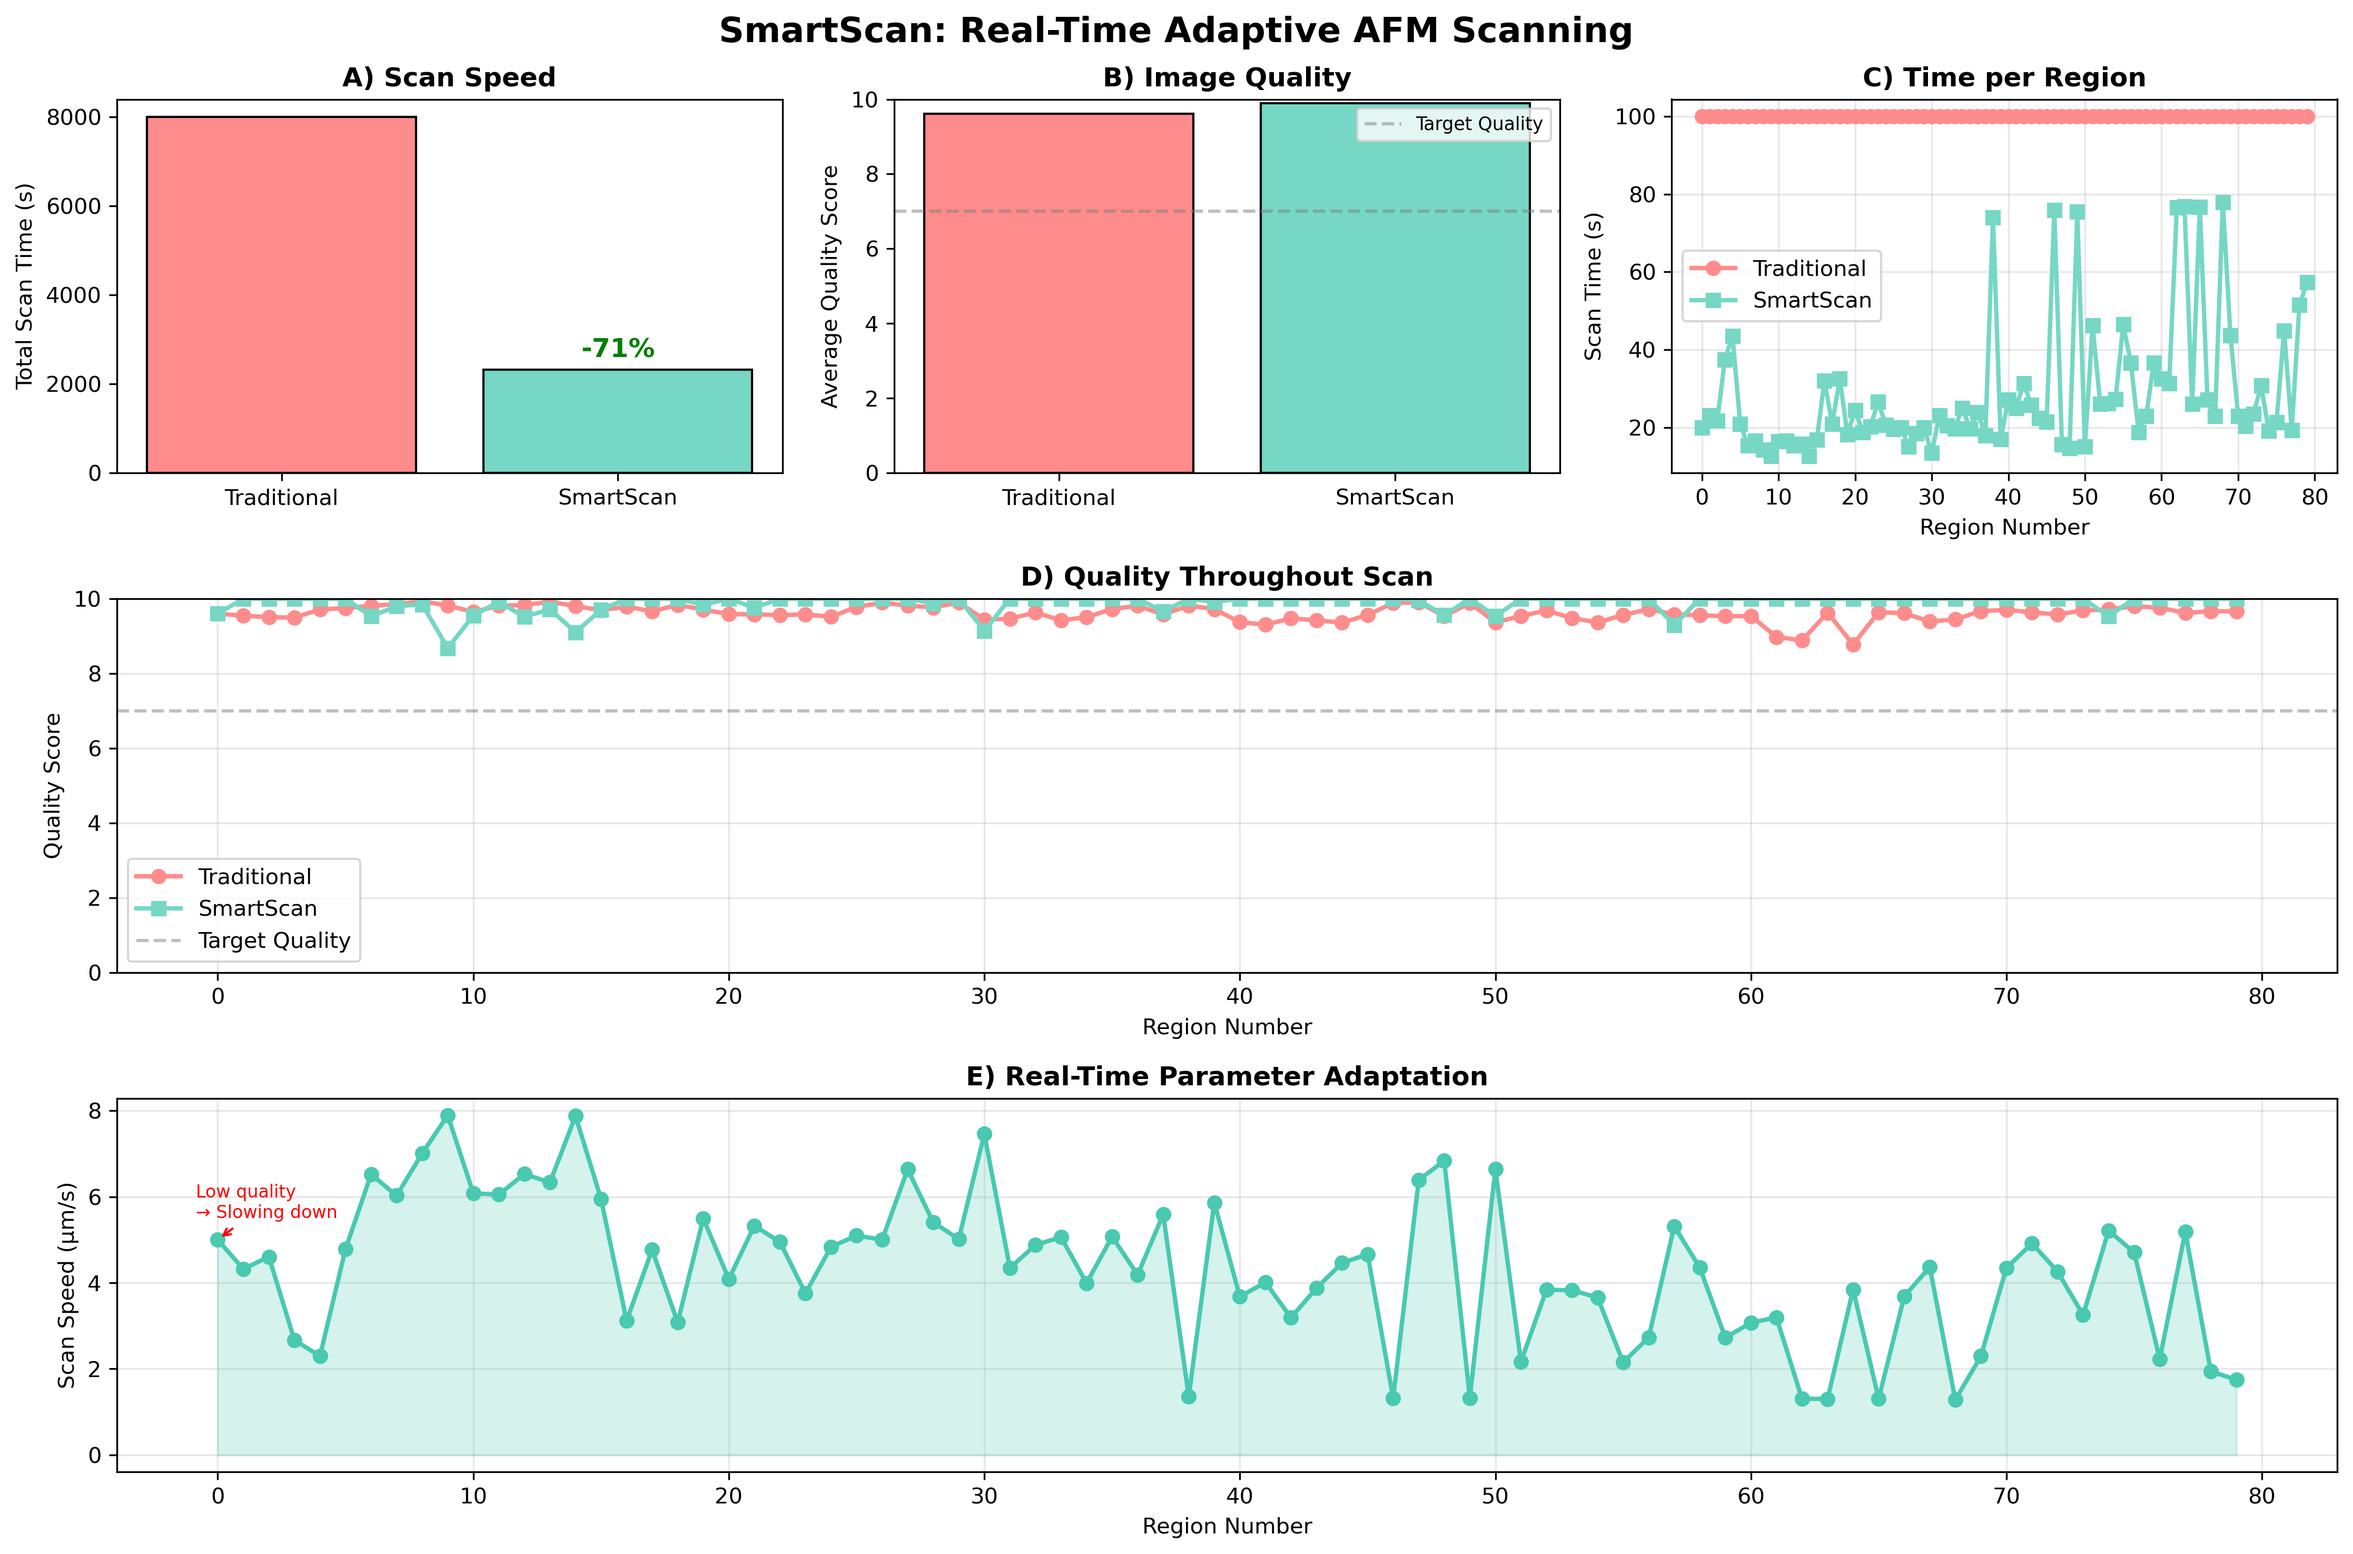
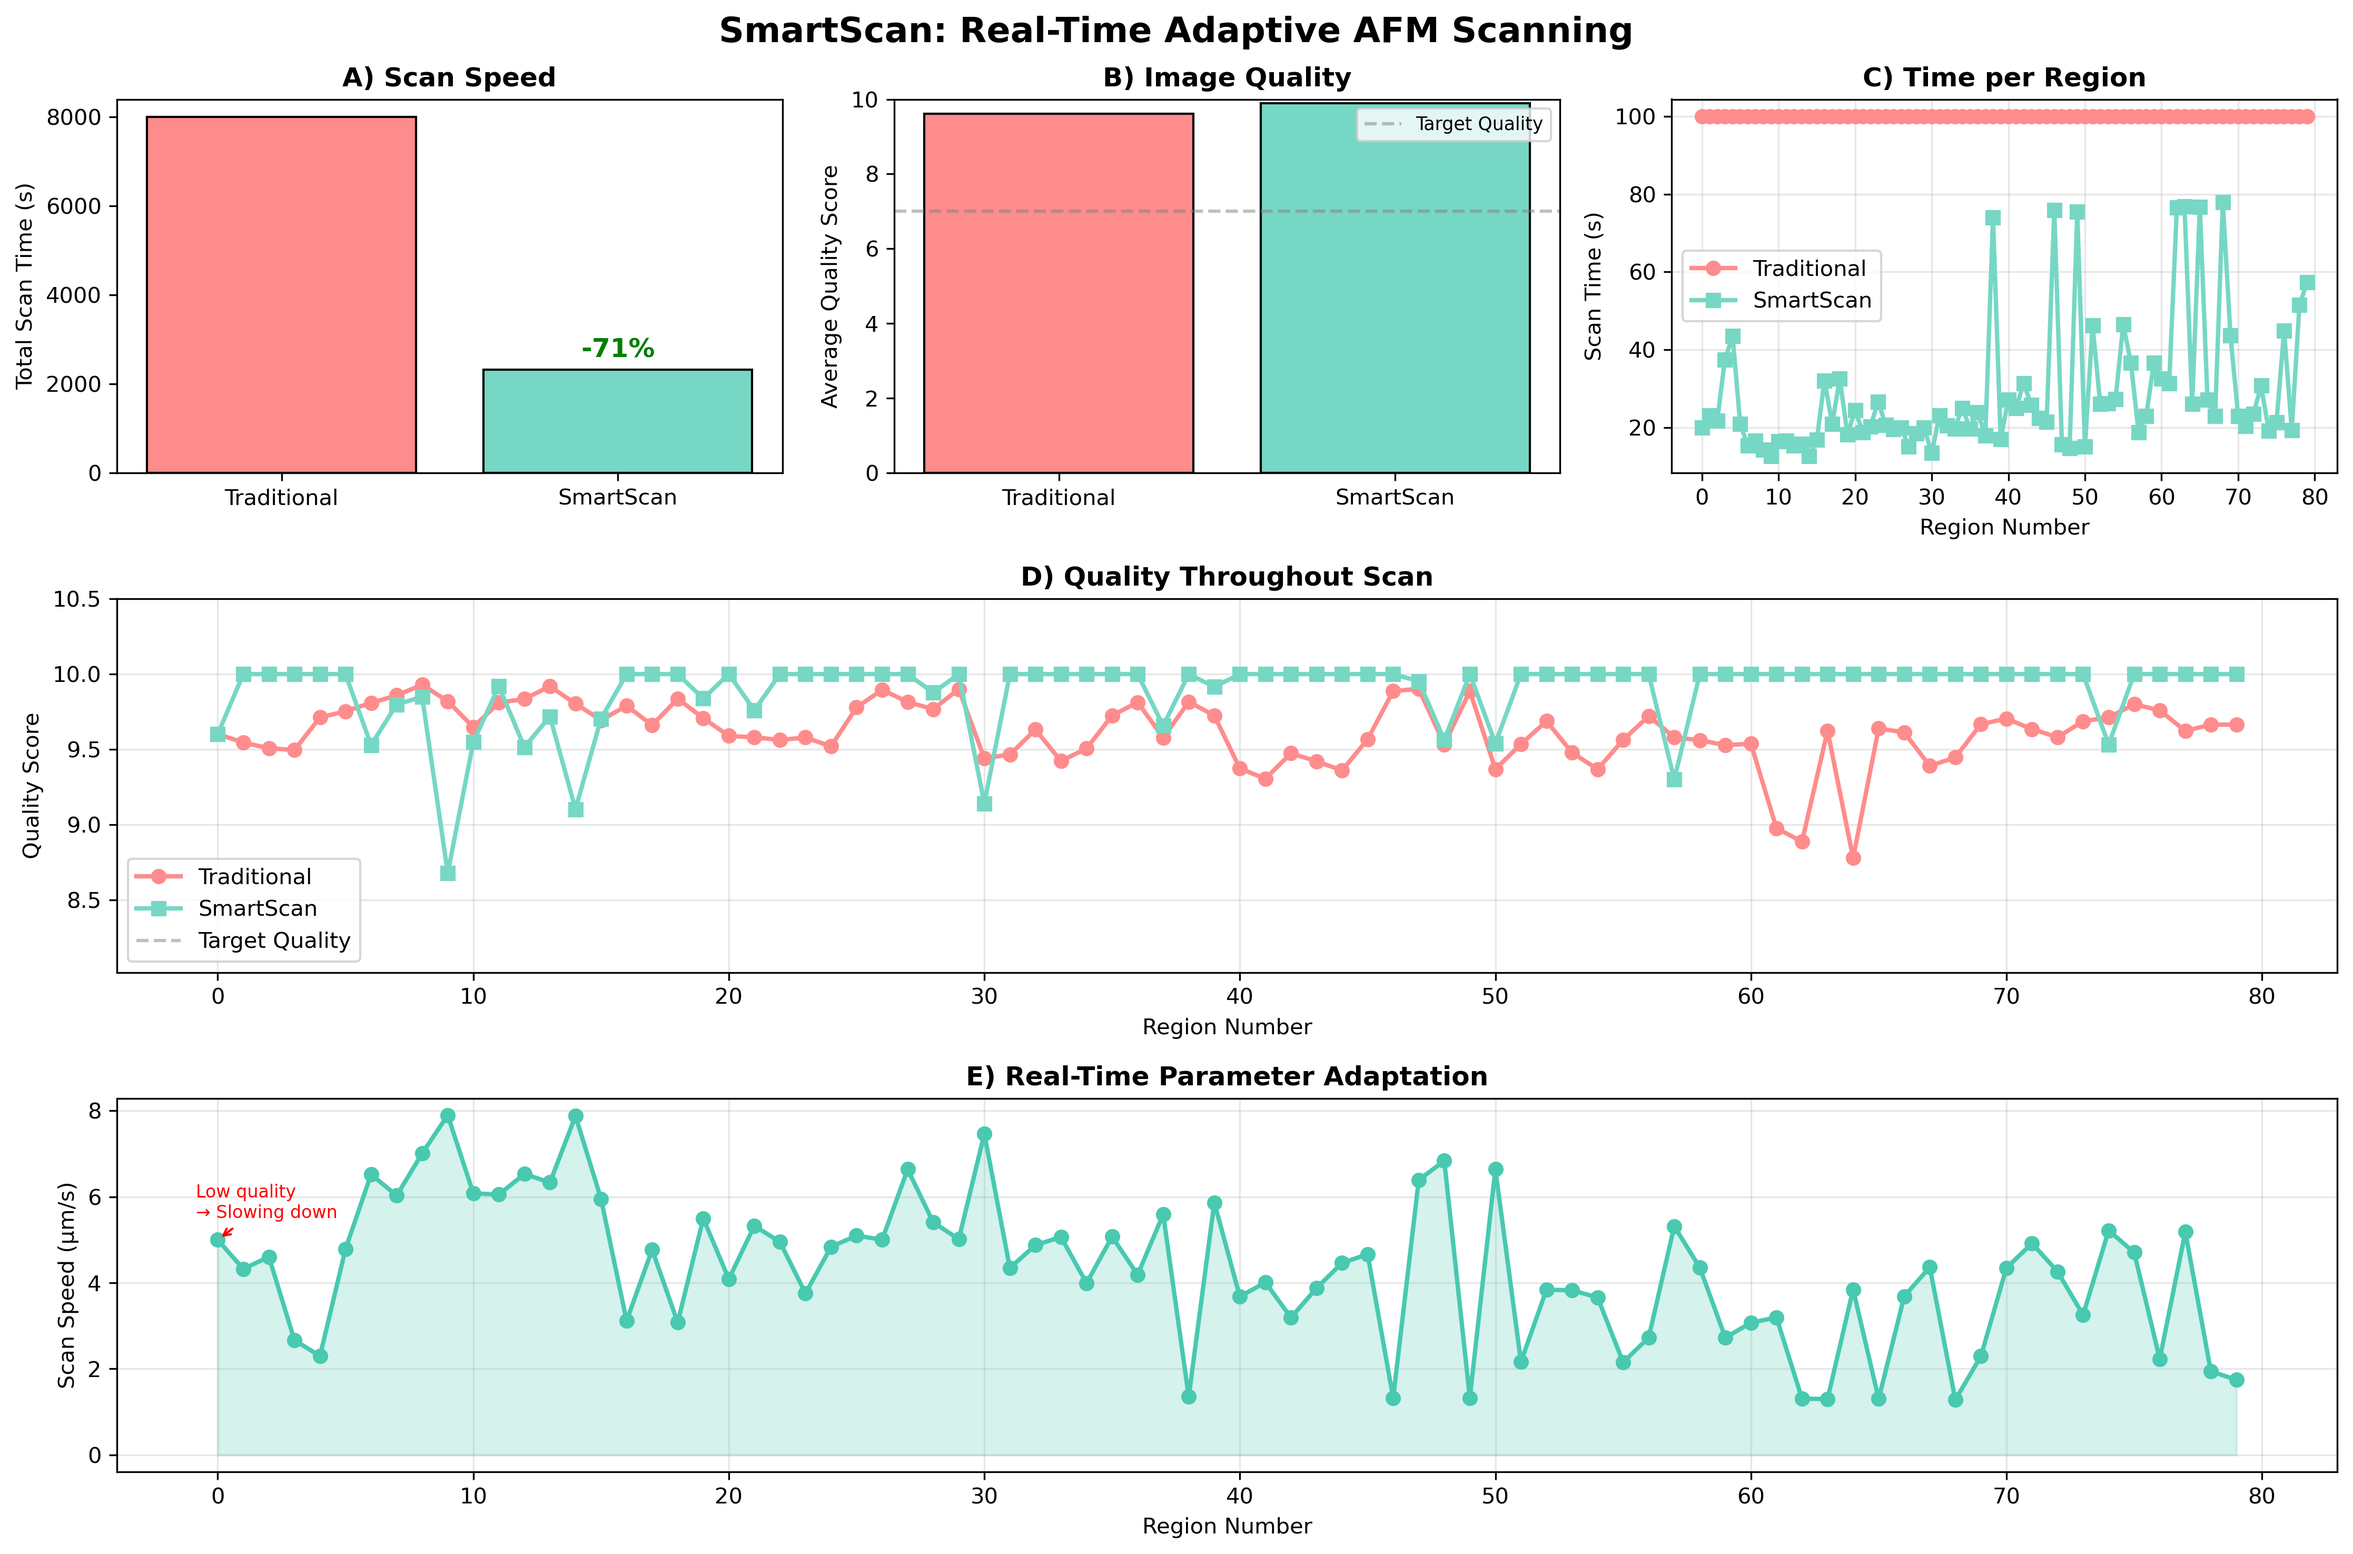
Fixed graph, readme.md image path

Changed region(s): [[0.0933, 0.3741, 0.9644, 0.5612], [0.0, 0.4676, 0.0311, 0.5612], [0.1867, 0.53, 0.2178, 0.5612]]

diff --git a/main.py b/main.py
@@ -312,7 +312,13 @@ def create_visualization(results_trad, results_ml):
     ax4.set_xlabel('Region Number')
     ax4.set_ylabel('Quality Score')
     ax4.set_title('D) Quality Throughout Scan', fontweight='bold')
-    ax4.set_ylim(0, 10)
+    # Dynamic scaling to center the data
+    all_scores = results_trad['quality_scores'] + results_ml['quality_scores']
+    min_q = min(all_scores)
+    max_q = max(all_scores)
+    # Add 20% padding around the range
+    padding = max(0.1, (max_q - min_q) * 0.5)
+    ax4.set_ylim(max(0, min_q - padding), min(10.5, max_q + padding))
     ax4.grid(True, alpha=0.3)
     ax4.legend()
     

diff --git a/README.md b/README.md
@@ -29,7 +29,7 @@ python main.py
 ## Results
 
 <p align="center">
-  <img src="results/smartscan_benchmark.png" width="1000"/>
+  <img src="./results/smartscan_real_data.png" width="1000"/>
   <br/>
   <em>Publication-quality benchmark figure generated by the script</em>
 </p>
